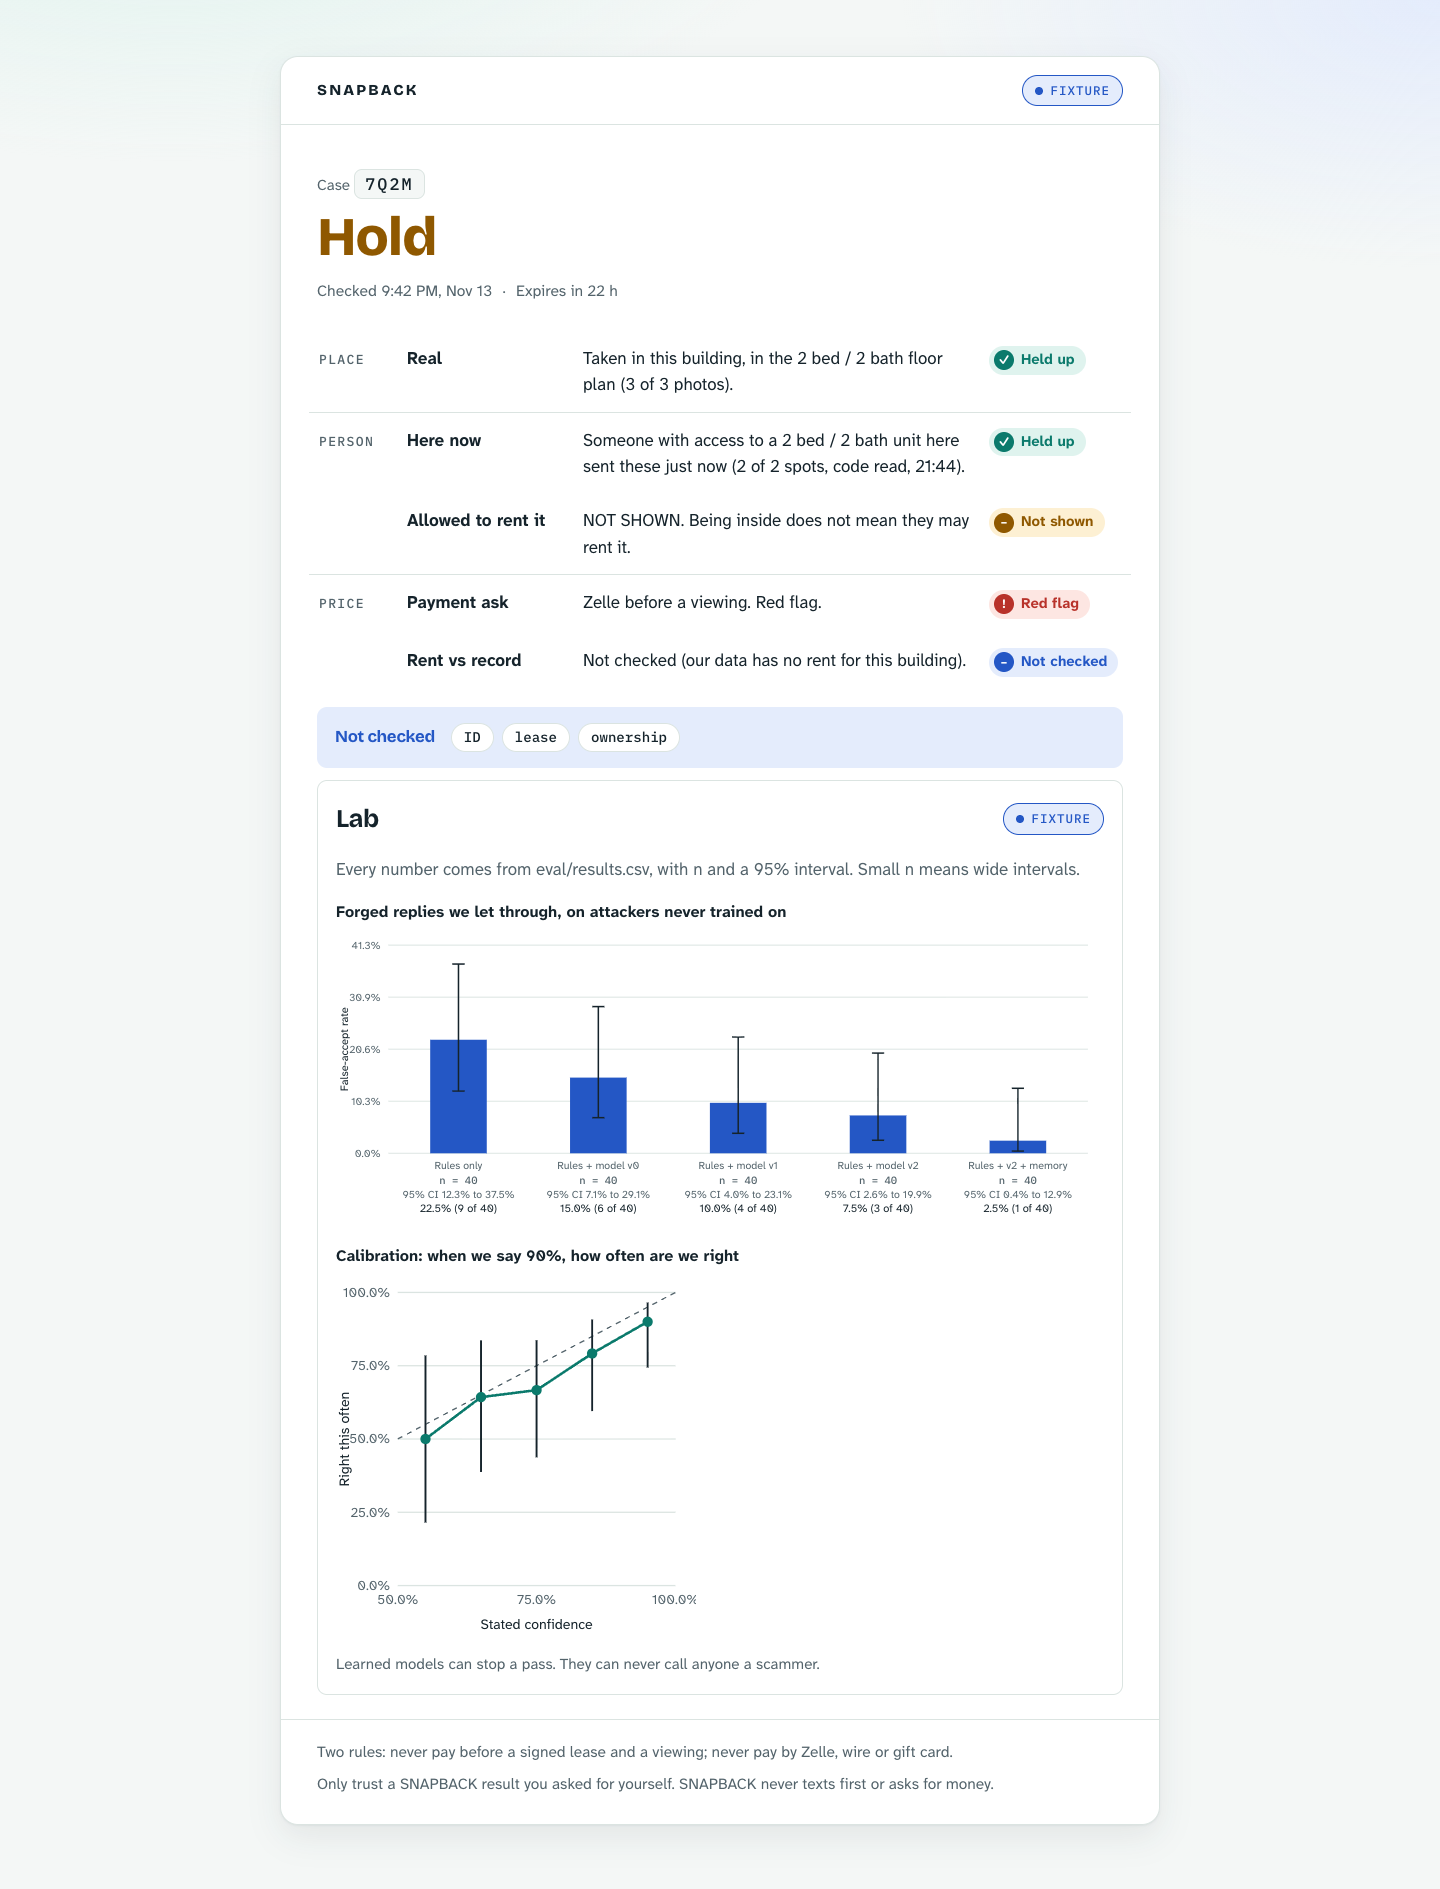
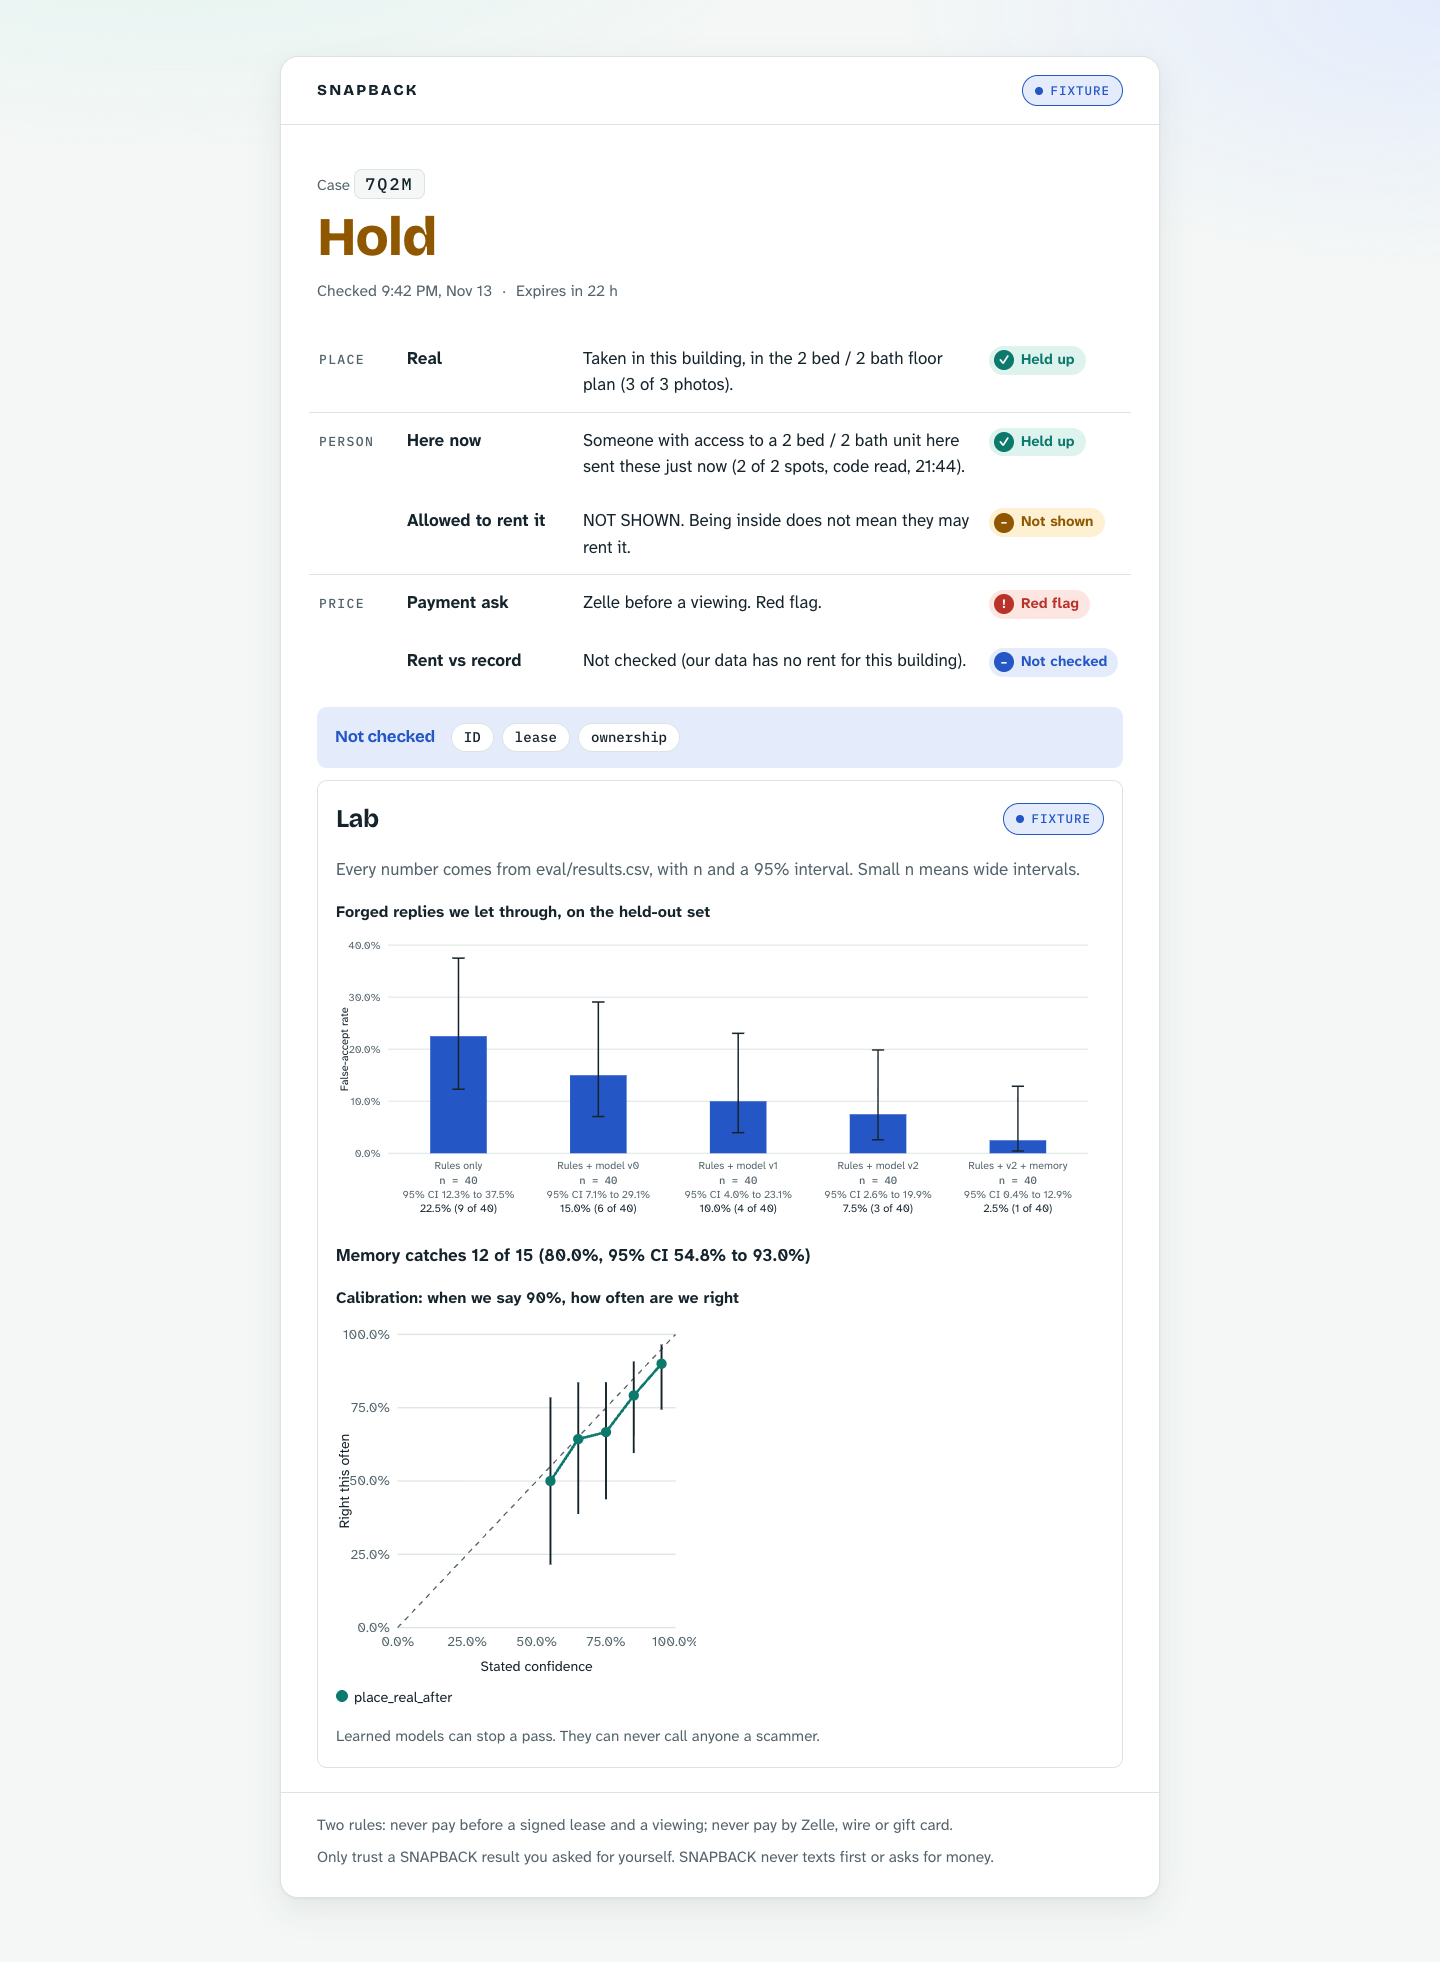
T6: review fixes: calibration series and legend, memory catch, neutral heading, 0-1 axis, rate vs k/n check, round ticks, Lab on result page only

diff --git a/apps/web/src/lab/LabPanel.tsx b/apps/web/src/lab/LabPanel.tsx
@@ -5,8 +5,11 @@ import { SourceChip } from "../components/SourceChip";
 import type { DataSource } from "../contracts";
 import {
   CONDITION_LABEL,
+  type CalibrationPoint,
   ResultsError,
-  calibrationPoints,
+  calibrationSeries,
+  memoryCatch,
+  niceTicks,
   curveBars,
   linearScale,
   parseResults,
@@ -18,12 +21,9 @@ const W = 760;
 const H = 290;
 const M = { top: 12, right: 16, bottom: 72, left: 52 };
 
-function ticks(max: number): number[] {
-  return [0, 0.25, 0.5, 0.75, 1].map((t) => t * max);
-}
-
 function CurveChart({ bars }: { bars: ResultRow[] }) {
-  const max = Math.min(1, Math.max(0.1, ...bars.map((b) => b.ci_high)) * 1.1);
+  const tickVals = niceTicks(Math.max(0.05, ...bars.map((b) => b.ci_high)));
+  const max = tickVals[tickVals.length - 1]!;
   const y = linearScale([0, max], [H - M.bottom, M.top]);
   const slot = (W - M.left - M.right) / bars.length;
   return (
@@ -37,7 +37,7 @@ function CurveChart({ bars }: { bars: ResultRow[] }) {
       <title id="curve-title">
         Forged-reply false-accept rate by condition, with 95% interval and n
       </title>
-      {ticks(max).map((t) => (
+      {tickVals.map((t) => (
         <g key={t}>
           <line x1={M.left} x2={W - M.right} y1={y(t)} y2={y(t)} className="lab-grid" />
           <text x={M.left - 8} y={y(t)} className="lab-tick" textAnchor="end" dy="0.32em">
@@ -116,67 +116,81 @@ function CurveChart({ bars }: { bars: ResultRow[] }) {
   );
 }
 
-function CalibrationChart({ rows }: { rows: ResultRow[] }) {
-  const pts = calibrationPoints(rows);
+const SERIES_CLASS = ["lab-s0", "lab-s1", "lab-s2"];
+
+function CalibrationChart({ series }: { series: Map<string, CalibrationPoint[]> }) {
   const S = 280;
   const m = { top: 12, right: 16, bottom: 40, left: 48 };
-  const x = linearScale([0.5, 1], [m.left, S - m.right]);
+  const x = linearScale([0, 1], [m.left, S - m.right]);
   const y = linearScale([0, 1], [S - m.bottom, m.top]);
+  const entries = [...series.entries()];
   return (
-    <svg
-      viewBox={`0 0 ${S} ${S}`}
-      role="img"
-      aria-labelledby="cal-title"
-      className="lab-svg lab-svg-square"
-      data-testid="calibration-chart"
-    >
-      <title id="cal-title">
-        Reliability diagram: stated confidence against how often the place check was right
-      </title>
-      {[0, 0.25, 0.5, 0.75, 1].map((t) => (
-        <g key={t}>
-          <line x1={m.left} x2={S - m.right} y1={y(t)} y2={y(t)} className="lab-grid" />
-          <text x={m.left - 6} y={y(t)} className="lab-tick" textAnchor="end" dy="0.32em">
-            {pct(t)}
-          </text>
-        </g>
-      ))}
-      {[0.5, 0.75, 1].map((t) => (
-        <text key={t} x={x(t)} y={S - m.bottom + 14} className="lab-tick" textAnchor="middle">
-          {pct(t)}
-        </text>
-      ))}
-      <line x1={x(0.5)} y1={y(0.5)} x2={x(1)} y2={y(1)} className="lab-diagonal" />
-      <text x={(m.left + S - m.right) / 2} y={S - 6} className="lab-axis" textAnchor="middle">
-        Stated confidence
-      </text>
-      <text
-        transform={`translate(10 ${(m.top + S - m.bottom) / 2}) rotate(-90)`}
-        className="lab-axis"
-        textAnchor="middle"
+    <div className="lab-cal">
+      <svg
+        viewBox={`0 0 ${S} ${S}`}
+        role="img"
+        aria-labelledby="cal-title"
+        className="lab-svg lab-svg-square"
+        data-testid="calibration-chart"
       >
-        Right this often
-      </text>
-      <polyline
-        points={pts.map((p) => `${x(p.x)},${y(p.rate)}`).join(" ")}
-        className="lab-line"
-        fill="none"
-      />
-      {pts.map((p) => (
-        <g key={p.metric} data-testid="cal-point">
-          <line
-            x1={x(p.x)}
-            x2={x(p.x)}
-            y1={y(p.ci_low)}
-            y2={y(p.ci_high)}
-            className="lab-whisker"
-          />
-          <circle cx={x(p.x)} cy={y(p.rate)} r={4} className="lab-dot">
-            <title>{`${pct(p.rate)} right, n = ${p.n}, 95% CI ${pct(p.ci_low)} to ${pct(p.ci_high)}`}</title>
-          </circle>
-        </g>
-      ))}
-    </svg>
+        <title id="cal-title">
+          Reliability diagram: stated confidence against how often the place check was right
+        </title>
+        {[0, 0.25, 0.5, 0.75, 1].map((t) => (
+          <g key={t}>
+            <line x1={m.left} x2={S - m.right} y1={y(t)} y2={y(t)} className="lab-grid" />
+            <text x={m.left - 6} y={y(t)} className="lab-tick" textAnchor="end" dy="0.32em">
+              {pct(t)}
+            </text>
+            <text x={x(t)} y={S - m.bottom + 14} className="lab-tick" textAnchor="middle">
+              {pct(t)}
+            </text>
+          </g>
+        ))}
+        <line x1={x(0)} y1={y(0)} x2={x(1)} y2={y(1)} className="lab-diagonal" />
+        <text x={(m.left + S - m.right) / 2} y={S - 6} className="lab-axis" textAnchor="middle">
+          Stated confidence
+        </text>
+        <text
+          transform={`translate(10 ${(m.top + S - m.bottom) / 2}) rotate(-90)`}
+          className="lab-axis"
+          textAnchor="middle"
+        >
+          Right this often
+        </text>
+        {entries.map(([cond, pts], si) => (
+          <g key={cond} className={SERIES_CLASS[si % SERIES_CLASS.length]} data-testid="cal-series">
+            <polyline
+              points={pts.map((p) => `${x(p.x)},${y(p.rate)}`).join(" ")}
+              className="lab-line"
+              fill="none"
+            />
+            {pts.map((p) => (
+              <g key={`${p.condition}${p.metric}`} data-testid="cal-point">
+                <line
+                  x1={x(p.x)}
+                  x2={x(p.x)}
+                  y1={y(p.ci_low)}
+                  y2={y(p.ci_high)}
+                  className="lab-whisker"
+                />
+                <circle cx={x(p.x)} cy={y(p.rate)} r={4} className="lab-dot">
+                  <title>{`${pct(p.rate)} right, n = ${p.n}, 95% CI ${pct(p.ci_low)} to ${pct(p.ci_high)}`}</title>
+                </circle>
+              </g>
+            ))}
+          </g>
+        ))}
+      </svg>
+      <ul className="lab-legend" data-testid="cal-legend">
+        {entries.map(([cond], si) => (
+          <li key={cond} className={SERIES_CLASS[si % SERIES_CLASS.length]}>
+            <span className="lab-swatch" aria-hidden="true" />
+            {cond}
+          </li>
+        ))}
+      </ul>
+    </div>
   );
 }
 
@@ -193,7 +207,8 @@ export function LabPanel({ csv, source }: { csv: string; source: DataSource }) {
   }, [csv]);
 
   const bars = curveBars(parsed.rows);
-  const cal = calibrationPoints(parsed.rows);
+  const cal = calibrationSeries(parsed.rows);
+  const mem = memoryCatch(parsed.rows);
   const frozen = parsed.rows.find((r) => r.frozen_at && r.frozen_at !== "FIXTURE")?.frozen_at;
 
   return (
@@ -218,7 +233,7 @@ export function LabPanel({ csv, source }: { csv: string; source: DataSource }) {
       ) : (
         <>
           <div className="lab-block">
-            <h3>Forged replies we let through, on attackers never trained on</h3>
+            <h3>Forged replies we let through, on the held-out set</h3>
             {bars.length > 0 ? (
               <div className="lab-scroll">
                 <CurveChart bars={bars} />
@@ -229,10 +244,15 @@ export function LabPanel({ csv, source }: { csv: string; source: DataSource }) {
               </p>
             )}
           </div>
+          {mem ? (
+            <p className="lab-memory" data-testid="memory-catch">
+              {`Memory catches ${mem.k} of ${mem.n} (${pct(mem.rate)}, 95% CI ${pct(mem.ci_low)} to ${pct(mem.ci_high)})`}
+            </p>
+          ) : null}
           <div className="lab-block">
             <h3>Calibration: when we say 90%, how often are we right</h3>
-            {cal.length > 0 ? (
-              <CalibrationChart rows={cal} />
+            {cal.size > 0 ? (
+              <CalibrationChart series={cal} />
             ) : (
               <p className="lab-note" data-testid="calibration-empty">
                 No calibration rows in this file.

diff --git a/apps/web/src/lab/lab.test.tsx b/apps/web/src/lab/lab.test.tsx
@@ -3,7 +3,14 @@ import { describe, expect, it } from "vitest";
 
 import sample from "../../../../fixtures/contracts/results_sample.csv?raw";
 import { LabPanel } from "./LabPanel";
-import { ResultsError, calibrationPoints, curveBars, linearScale, parseResults } from "./results";
+import {
+  ResultsError,
+  calibrationPoints,
+  curveBars,
+  linearScale,
+  niceTicks,
+  parseResults,
+} from "./results";
 
 const HEADER = "condition,metric,k,n,rate,ci_low,ci_high,frozen_at";
 
@@ -97,5 +104,53 @@ describe("LabPanel", () => {
     render(<LabPanel csv={only} source="fixture" />);
     expect(screen.getAllByTestId("curve-bar")).toHaveLength(1);
     expect(screen.getByTestId("calibration-empty")).toBeInTheDocument();
+  });
+});
+
+describe("review fixes", () => {
+  const twoSeries = `${HEADER}
+a_before,calibration_bin:0.80-0.90,5,10,0.5,0.2366,0.7634,FIXTURE
+a_after,calibration_bin:0.80-0.90,9,10,0.9,0.5958,0.9821,FIXTURE
+`;
+
+  it("keeps conditions sharing a bin as separate series with a legend", () => {
+    render(<LabPanel csv={twoSeries} source="fixture" />);
+    expect(screen.getAllByTestId("cal-series")).toHaveLength(2);
+    expect(screen.getAllByTestId("cal-point")).toHaveLength(2);
+    const legend = screen.getByTestId("cal-legend");
+    expect(within(legend).getByText("a_before")).toBeInTheDocument();
+    expect(within(legend).getByText("a_after")).toBeInTheDocument();
+  });
+
+  it("shows memory catches k of n with its interval", () => {
+    render(<LabPanel csv={sample} source="fixture" />);
+    expect(screen.getByTestId("memory-catch")).toHaveTextContent(
+      "Memory catches 12 of 15 (80.0%, 95% CI 54.8% to 93.0%)",
+    );
+  });
+
+  it("does not claim the attackers were unseen", () => {
+    render(<LabPanel csv={sample} source="fixture" />);
+    expect(screen.queryByText(/never trained/)).toBeNull();
+    expect(screen.getByText(/on the held-out set/)).toBeInTheDocument();
+  });
+
+  it("plots calibration on a 0 to 100% x axis", () => {
+    render(<LabPanel csv={sample} source="fixture" />);
+    const svg = screen.getByTestId("calibration-chart");
+    const labels = Array.from(svg.querySelectorAll("text.lab-tick")).map((t) => t.textContent);
+    expect(labels.filter((l) => l === "0.0%")).toHaveLength(2);
+    expect(calibrationPoints(parseResults(sample))[0]!.x).toBeCloseTo(0.55, 9);
+  });
+
+  it("rejects a rate that does not match k / n", () => {
+    expect(() => parseResults(`${HEADER}\na,m,4,10,0.5,0.2,0.8,t`)).toThrow(/line 2/);
+    expect(() => parseResults(`${HEADER}\na,m,0,0,0,0,0,t`)).toThrow(/line 2/);
+    expect(() => parseResults(`${HEADER}\na,m,4,10,0.4,0.2,0.8,t`)).not.toThrow();
+  });
+
+  it("uses round axis ticks", () => {
+    expect(niceTicks(0.375)).toEqual([0, 0.1, 0.2, 0.3, 0.4]);
+    expect(niceTicks(1)).toEqual([0, 0.2, 0.4, 0.6, 0.8, 1]);
   });
 });

diff --git a/apps/web/src/lab/results.ts b/apps/web/src/lab/results.ts
@@ -62,7 +62,9 @@ export function parseResults(text: string): ResultRow[] {
       row.metric === "" ||
       nums.some((v) => !Number.isFinite(v)) ||
       row.k < 0 ||
+      row.n <= 0 ||
       row.k > row.n ||
+      Math.abs(row.rate - row.k / row.n) > 0.0005 ||
       row.rate < 0 ||
       row.rate > 1 ||
       row.ci_low > row.rate + 1e-9 ||
@@ -125,3 +127,25 @@ export function linearScale(
 }
 
 export const pct = (v: number) => `${(v * 100).toFixed(1)}%`;
+
+export const MEMORY_METRIC = "memory_catch";
+
+export function memoryCatch(rows: ResultRow[]): ResultRow | undefined {
+  return rows.find((r) => r.metric === MEMORY_METRIC);
+}
+
+// One series per condition, so two conditions that share a confidence bin never merge.
+export function calibrationSeries(rows: ResultRow[]): Map<string, CalibrationPoint[]> {
+  const out = new Map<string, CalibrationPoint[]>();
+  for (const p of calibrationPoints(rows)) {
+    out.set(p.condition, [...(out.get(p.condition) ?? []), p]);
+  }
+  return out;
+}
+
+// Round axis ticks: the smallest "nice" step that covers `top` in at most 5 steps.
+export function niceTicks(top: number): number[] {
+  const step = [0.05, 0.1, 0.2, 0.25, 0.5, 1].find((s) => Math.ceil(top / s - 1e-9) <= 5) ?? 1;
+  const n = Math.max(1, Math.ceil(top / step - 1e-9));
+  return Array.from({ length: n + 1 }, (_, i) => Math.round(i * step * 1000) / 1000);
+}

diff --git a/apps/web/src/pages/CardPage.test.tsx b/apps/web/src/pages/CardPage.test.tsx
@@ -3,7 +3,7 @@ import { describe, expect, it } from "vitest";
 
 import cardHold from "../../../../fixtures/contracts/card_hold.json";
 import type { Card } from "../contracts";
-import { CardView } from "./CardPage";
+import { CardPage, CardView } from "./CardPage";
 
 const card = cardHold as Card;
 
@@ -56,4 +56,15 @@ describe("CardView with card_hold.json", () => {
       expect(headline.toLowerCase()).not.toMatch(/safe|verified|scam/);
     },
   );
+});
+
+describe("Lab placement", () => {
+  it("is on the result page and hidden on the verify page", async () => {
+    const result = render(<CardPage caseId={card.case_id} variant="result" />);
+    expect(await result.findByTestId("lab-panel")).toBeInTheDocument();
+    result.unmount();
+    const verify = render(<CardPage caseId={card.case_id} variant="verify" />);
+    await verify.findByTestId("case-id");
+    expect(verify.queryByTestId("lab-panel")).toBeNull();
+  });
 });

diff --git a/apps/web/src/lab/lab.css b/apps/web/src/lab/lab.css
@@ -76,3 +76,43 @@
   color: var(--muted);
   font-size: 0.95rem;
 }
+.lab-s0 {
+  --series: var(--teal);
+}
+.lab-s1 {
+  --series: var(--blue);
+}
+.lab-s2 {
+  --series: var(--amber);
+}
+.lab-s0 .lab-line,
+.lab-s1 .lab-line,
+.lab-s2 .lab-line {
+  stroke: var(--series);
+}
+.lab-s0 .lab-dot,
+.lab-s1 .lab-dot,
+.lab-s2 .lab-dot {
+  fill: var(--series);
+}
+.lab-legend {
+  list-style: none;
+  margin: 8px 0 0;
+  padding: 0;
+  display: flex;
+  flex-wrap: wrap;
+  gap: 4px 16px;
+  font-size: 0.9rem;
+}
+.lab-swatch {
+  display: inline-block;
+  width: 12px;
+  height: 12px;
+  border-radius: 50%;
+  margin-right: 6px;
+  background: var(--series);
+}
+.lab-memory {
+  margin: 16px 0 0;
+  font-weight: 700;
+}

diff --git a/apps/web/src/pages/CardPage.tsx b/apps/web/src/pages/CardPage.tsx
@@ -194,7 +194,8 @@ export function CardPage({ caseId, variant }: { caseId: string; variant: "result
     return () => ctrl.abort();
   }, [caseId, attempt]);
 
-  if (load.status === "ready") return <CardView card={load.card} variant={variant} withLab />;
+  if (load.status === "ready")
+    return <CardView card={load.card} variant={variant} withLab={variant === "result"} />;
   return (
     <div className="card-page notice" role="status">
       <span className="wordmark">SNAPBACK</span>
